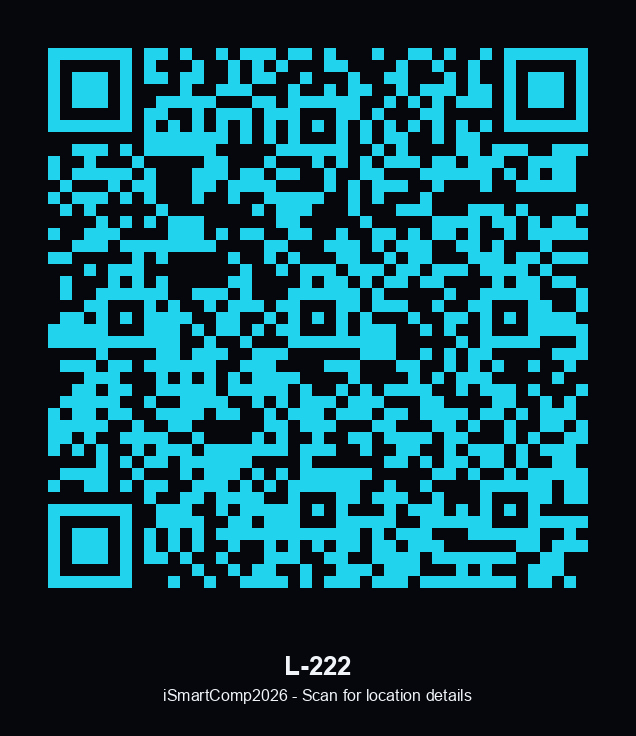
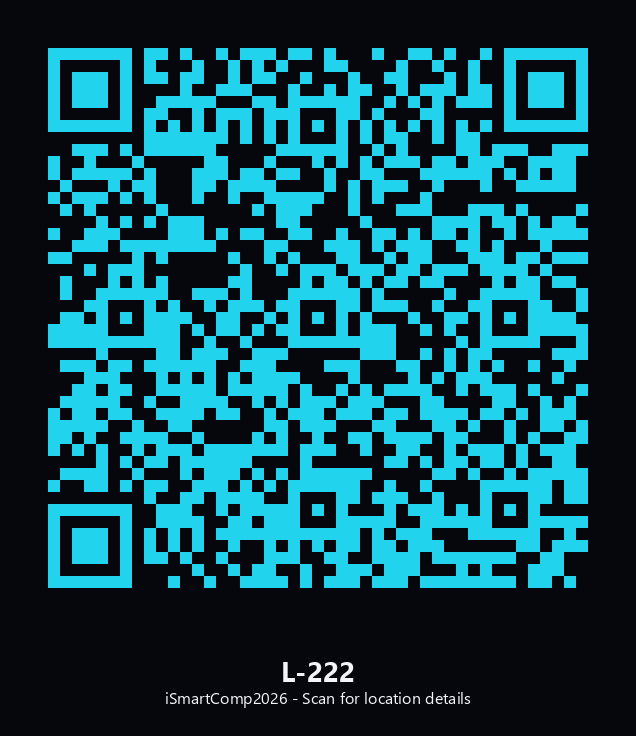
Use appealing fonts (Segoe UI) in QR codes

Changed region(s): [[0.239, 0.875, 0.7469, 0.9688]]

diff --git a/scripts/generate_qr.py b/scripts/generate_qr.py
@@ -41,13 +41,13 @@ def create_labeled_qr(data, text, filename, subtitle="iSmartComp2026 - Scan for 
     
     draw = ImageDraw.Draw(new_img)
     
-    # Try to load fonts, fallback to default
+    # Try to load appealing fonts (Segoe UI on Windows), fallback to Arial, then default
     try:
-        font_title = ImageFont.truetype("arialbd.ttf", 26) # Arial Bold
-        font_sub = ImageFont.truetype("arial.ttf", 16)
+        font_title = ImageFont.truetype("segoeuib.ttf", 28) # Segoe UI Bold
+        font_sub = ImageFont.truetype("segoeui.ttf", 16)    # Segoe UI Regular
     except IOError:
         try:
-            font_title = ImageFont.truetype("arial.ttf", 26)
+            font_title = ImageFont.truetype("arialbd.ttf", 26)
             font_sub = ImageFont.truetype("arial.ttf", 16)
         except IOError:
             font_title = ImageFont.load_default()
